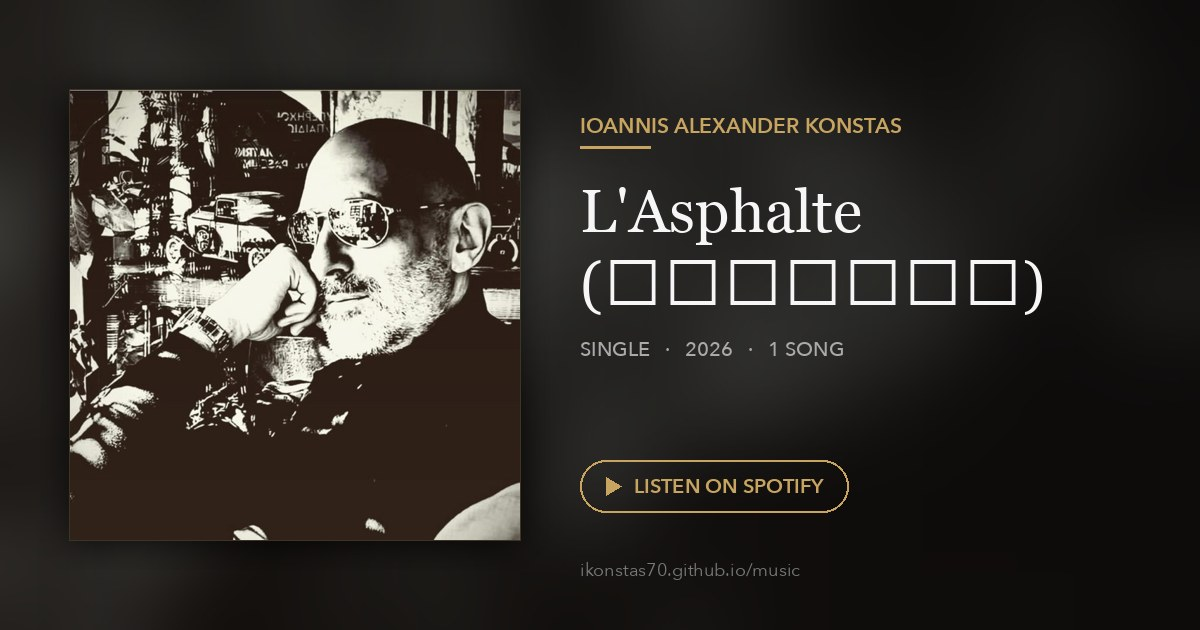
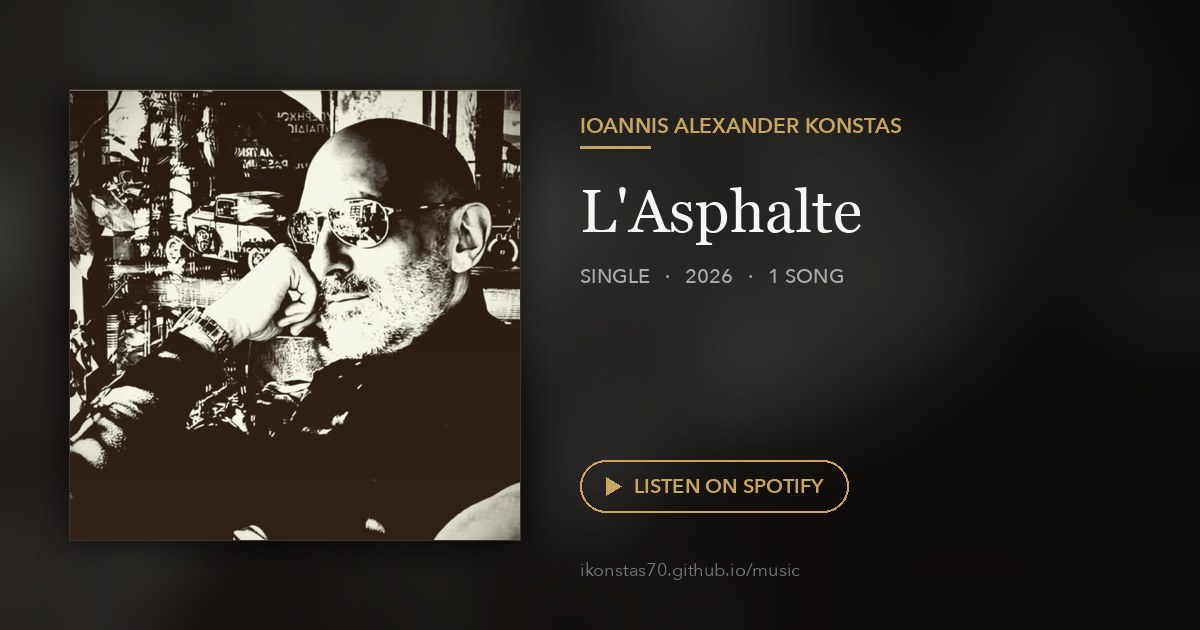
Add missed "When I Become The Signal" single; fix Arabic glyph boxes on L'Asphalte cards
- Add the standalone "When I Become The Signal" single (missed in the
  earlier batch) — 25 releases, 151 tracks now. Also cleans up a
  stale orphaned track page left over from before this single existed
  (the slug collision with the Stay True track of the same name now
  correctly produces two suffixed pages).
- Drop the Arabic parenthetical from L'Asphalte's title text: Georgia
  (the font used for share cards) can't render Arabic glyphs, so it
  was showing as a row of boxes on the Facebook preview.

Changed region(s): [[0.4625, 0.3921, 0.8942, 0.5127], [0.4625, 0.5429, 0.6167, 0.573], [0.6475, 0.5429, 0.7092, 0.573]]

diff --git a/albums/lasphalte.html b/albums/lasphalte.html
@@ -4,24 +4,24 @@
 <link rel="canonical" href="https://ikonstas70.github.io/music/albums/lasphalte.html">
 <meta charset="utf-8">
 <meta name="viewport" content="width=device-width, initial-scale=1">
-<title>L&#x27;Asphalte (الإسفلت) &mdash; Ioannis Alexander Konstas</title>
-<meta name="description" content="L&#x27;Asphalte (الإسفلت) &mdash; single by Ioannis Alexander Konstas. 1 track. Stream on Spotify.">
+<title>L&#x27;Asphalte &mdash; Ioannis Alexander Konstas</title>
+<meta name="description" content="L&#x27;Asphalte &mdash; single by Ioannis Alexander Konstas. 1 track. Stream on Spotify.">
 <meta name="author" content="Ioannis Alexander Konstas">
 
 <meta property="og:type" content="music.album">
 <meta property="og:url" content="https://ikonstas70.github.io/music/albums/lasphalte.html">
-<meta property="og:title" content="L&#x27;Asphalte (الإسفلت) &mdash; Ioannis Alexander Konstas">
-<meta property="og:description" content="L&#x27;Asphalte (الإسفلت) &mdash; single by Ioannis Alexander Konstas. 1 track. Stream on Spotify.">
+<meta property="og:title" content="L&#x27;Asphalte &mdash; Ioannis Alexander Konstas">
+<meta property="og:description" content="L&#x27;Asphalte &mdash; single by Ioannis Alexander Konstas. 1 track. Stream on Spotify.">
 <meta property="og:image" content="https://ikonstas70.github.io/music/share/lasphalte.jpg">
 <meta property="og:image:secure_url" content="https://ikonstas70.github.io/music/share/lasphalte.jpg">
 <meta property="og:image:type" content="image/jpeg">
 <meta property="og:image:width" content="1200">
 <meta property="og:image:height" content="630">
-<meta property="og:image:alt" content="L&#x27;Asphalte (الإسفلت) cover art">
+<meta property="og:image:alt" content="L&#x27;Asphalte cover art">
 <meta property="og:site_name" content="Ioannis Alexander Konstas &mdash; Music">
 <meta name="twitter:card" content="summary_large_image">
-<meta name="twitter:title" content="L&#x27;Asphalte (الإسفلت) &mdash; Ioannis Alexander Konstas">
-<meta name="twitter:description" content="L&#x27;Asphalte (الإسفلت) &mdash; single by Ioannis Alexander Konstas. 1 track. Stream on Spotify.">
+<meta name="twitter:title" content="L&#x27;Asphalte &mdash; Ioannis Alexander Konstas">
+<meta name="twitter:description" content="L&#x27;Asphalte &mdash; single by Ioannis Alexander Konstas. 1 track. Stream on Spotify.">
 <meta name="twitter:image" content="https://ikonstas70.github.io/music/share/lasphalte.jpg">
 
 <link rel="stylesheet" href="/music/style.css">
@@ -39,18 +39,18 @@
   </header>
 
   <main>
-    <img class="album-cover" src="../covers/lasphalte.jpg" alt="L&#x27;Asphalte (الإسفلت) cover art">
-    <h1 style="text-align:center">L&#x27;Asphalte (الإسفلت)</h1>
+    <img class="album-cover" src="../covers/lasphalte.jpg" alt="L&#x27;Asphalte cover art">
+    <h1 style="text-align:center">L&#x27;Asphalte</h1>
     <p class="meta" style="text-align:center">Single &middot; 1 song &middot; 4 min 3 sec &middot; Released August 21, 2026</p>
 
     <div class="spotify-embed">
-      <iframe src="https://open.spotify.com/embed/album/5ZAJ23df1bzgBjuGqv30ou?utm_source=oembed" width="100%" height="352" frameborder="0" allowfullscreen="" allow="autoplay; clipboard-write; encrypted-media; fullscreen; picture-in-picture" loading="lazy" title="Spotify Embed: L&#x27;Asphalte (الإسفلت)"></iframe>
+      <iframe src="https://open.spotify.com/embed/album/5ZAJ23df1bzgBjuGqv30ou?utm_source=oembed" width="100%" height="352" frameborder="0" allowfullscreen="" allow="autoplay; clipboard-write; encrypted-media; fullscreen; picture-in-picture" loading="lazy" title="Spotify Embed: L&#x27;Asphalte"></iframe>
     </div>
 
     <h2>Tracklist</h2>
     <p class="source-note">Tap a track to play a preview right here, via Spotify&rsquo;s own player.</p>
     <ol class="tracklist">
-      <li><span class="tn">1</span><button type="button" class="tt" data-track-id="6Sc0gYp383ZAYbF37xeEIG">L&#x27;Asphalte (الإسفلت)</button><span class="td">4:03</span></li>
+      <li><span class="tn">1</span><button type="button" class="tt" data-track-id="6Sc0gYp383ZAYbF37xeEIG">L&#x27;Asphalte</button><span class="td">4:03</span></li>
     </ol>
 
     <p style="text-align:center;"><a href="https://open.spotify.com/album/5ZAJ23df1bzgBjuGqv30ou">Listen on Spotify &rarr;</a></p>

diff --git a/tracks/l-asphalte.html b/tracks/l-asphalte.html
@@ -4,25 +4,25 @@
 <link rel="canonical" href="https://ikonstas70.github.io/music/tracks/l-asphalte.html">
 <meta charset="utf-8">
 <meta name="viewport" content="width=device-width, initial-scale=1">
-<title>L&#x27;Asphalte (الإسفلت) — Ioannis Alexander Konstas</title>
-<meta name="description" content="L&#x27;Asphalte (الإسفلت) — single by Ioannis Alexander Konstas. Stream on Spotify.">
+<title>L&#x27;Asphalte — Ioannis Alexander Konstas</title>
+<meta name="description" content="L&#x27;Asphalte — single by Ioannis Alexander Konstas. Stream on Spotify.">
 <meta name="author" content="Ioannis Alexander Konstas">
 
 <meta property="og:type" content="music.song">
 <meta property="og:url" content="https://ikonstas70.github.io/music/tracks/l-asphalte.html">
-<meta property="og:title" content="L&#x27;Asphalte (الإسفلت) — Ioannis Alexander Konstas">
-<meta property="og:description" content="L&#x27;Asphalte (الإسفلت) — single by Ioannis Alexander Konstas. Stream on Spotify.">
-<meta property="og:image" content="https://ikonstas70.github.io/music/share/tracks/l-asphalte.jpg?v=e07f9dd0">
-<meta property="og:image:secure_url" content="https://ikonstas70.github.io/music/share/tracks/l-asphalte.jpg?v=e07f9dd0">
+<meta property="og:title" content="L&#x27;Asphalte — Ioannis Alexander Konstas">
+<meta property="og:description" content="L&#x27;Asphalte — single by Ioannis Alexander Konstas. Stream on Spotify.">
+<meta property="og:image" content="https://ikonstas70.github.io/music/share/tracks/l-asphalte.jpg?v=cbe72050">
+<meta property="og:image:secure_url" content="https://ikonstas70.github.io/music/share/tracks/l-asphalte.jpg?v=cbe72050">
 <meta property="og:image:type" content="image/jpeg">
 <meta property="og:image:width" content="1200">
 <meta property="og:image:height" content="630">
-<meta property="og:image:alt" content="L&#x27;Asphalte (الإسفلت) — L&#x27;Asphalte (الإسفلت) cover art">
+<meta property="og:image:alt" content="L&#x27;Asphalte — L&#x27;Asphalte cover art">
 <meta property="og:site_name" content="Ioannis Alexander Konstas — Music">
 <meta name="twitter:card" content="summary_large_image">
-<meta name="twitter:title" content="L&#x27;Asphalte (الإسفلت) — Ioannis Alexander Konstas">
-<meta name="twitter:description" content="L&#x27;Asphalte (الإسفلت) — single by Ioannis Alexander Konstas. Stream on Spotify.">
-<meta name="twitter:image" content="https://ikonstas70.github.io/music/share/tracks/l-asphalte.jpg?v=e07f9dd0">
+<meta name="twitter:title" content="L&#x27;Asphalte — Ioannis Alexander Konstas">
+<meta name="twitter:description" content="L&#x27;Asphalte — single by Ioannis Alexander Konstas. Stream on Spotify.">
+<meta name="twitter:image" content="https://ikonstas70.github.io/music/share/tracks/l-asphalte.jpg?v=cbe72050">
 
 <link rel="stylesheet" href="/music/style.css">
 </head>
@@ -39,12 +39,12 @@
   </header>
 
   <main>
-    <img class="album-cover" src="../covers/lasphalte.jpg" alt="L&#x27;Asphalte (الإسفلت) cover art">
-    <h1 style="text-align:center">L&#x27;Asphalte (الإسفلت)</h1>
+    <img class="album-cover" src="../covers/lasphalte.jpg" alt="L&#x27;Asphalte cover art">
+    <h1 style="text-align:center">L&#x27;Asphalte</h1>
     <p class="meta" style="text-align:center">Single &middot; 4:03 &middot; 2026</p>
 
     <div class="spotify-embed">
-      <iframe src="https://open.spotify.com/embed/track/6Sc0gYp383ZAYbF37xeEIG?utm_source=oembed" width="100%" height="352" frameborder="0" allowfullscreen="" allow="autoplay; clipboard-write; encrypted-media; fullscreen; picture-in-picture" loading="lazy" title="Spotify Embed: L&#x27;Asphalte (الإسفلت)"></iframe>
+      <iframe src="https://open.spotify.com/embed/track/6Sc0gYp383ZAYbF37xeEIG?utm_source=oembed" width="100%" height="352" frameborder="0" allowfullscreen="" allow="autoplay; clipboard-write; encrypted-media; fullscreen; picture-in-picture" loading="lazy" title="Spotify Embed: L&#x27;Asphalte"></iframe>
     </div>
 
     <p style="text-align:center;"><a href="https://open.spotify.com/track/6Sc0gYp383ZAYbF37xeEIG">Listen on Spotify &rarr;</a></p>

diff --git a/albums/when-i-become-the-signal.html b/albums/when-i-become-the-signal.html
@@ -1,0 +1,70 @@
+<!DOCTYPE html>
+<html lang="en">
+<head>
+<link rel="canonical" href="https://ikonstas70.github.io/music/albums/when-i-become-the-signal.html">
+<meta charset="utf-8">
+<meta name="viewport" content="width=device-width, initial-scale=1">
+<title>When I Become The Signal &mdash; Ioannis Alexander Konstas</title>
+<meta name="description" content="When I Become The Signal &mdash; single by Ioannis Alexander Konstas. 1 track. Stream on Spotify.">
+<meta name="author" content="Ioannis Alexander Konstas">
+
+<meta property="og:type" content="music.album">
+<meta property="og:url" content="https://ikonstas70.github.io/music/albums/when-i-become-the-signal.html">
+<meta property="og:title" content="When I Become The Signal &mdash; Ioannis Alexander Konstas">
+<meta property="og:description" content="When I Become The Signal &mdash; single by Ioannis Alexander Konstas. 1 track. Stream on Spotify.">
+<meta property="og:image" content="https://ikonstas70.github.io/music/share/when-i-become-the-signal.jpg">
+<meta property="og:image:secure_url" content="https://ikonstas70.github.io/music/share/when-i-become-the-signal.jpg">
+<meta property="og:image:type" content="image/jpeg">
+<meta property="og:image:width" content="1200">
+<meta property="og:image:height" content="630">
+<meta property="og:image:alt" content="When I Become The Signal cover art">
+<meta property="og:site_name" content="Ioannis Alexander Konstas &mdash; Music">
+<meta name="twitter:card" content="summary_large_image">
+<meta name="twitter:title" content="When I Become The Signal &mdash; Ioannis Alexander Konstas">
+<meta name="twitter:description" content="When I Become The Signal &mdash; single by Ioannis Alexander Konstas. 1 track. Stream on Spotify.">
+<meta name="twitter:image" content="https://ikonstas70.github.io/music/share/when-i-become-the-signal.jpg">
+
+<link rel="stylesheet" href="/music/style.css">
+</head>
+<body>
+<div class="wrap">
+  <header class="site">
+    <a class="brand" href="/music/">Ioannis Alexander Konstas<em>.</em></a>
+    <div class="tagline">Original Music</div>
+    <div class="rule"></div>
+    <nav class="top">
+      <a href="/music/">Discography</a>
+      <a href="https://open.spotify.com/artist/7gbVmhIUyDkCw47jHlkiTF">Spotify Profile</a>
+    </nav>
+  </header>
+
+  <main>
+    <img class="album-cover" src="../covers/when-i-become-the-signal.jpg" alt="When I Become The Signal cover art">
+    <h1 style="text-align:center">When I Become The Signal</h1>
+    <p class="meta" style="text-align:center">Single &middot; 1 song &middot; 4 min 50 sec &middot; Released September 25, 2026</p>
+
+    <div class="spotify-embed">
+      <iframe src="https://open.spotify.com/embed/album/0Lo7WSHAUxEVEaPcjGexYk?utm_source=oembed" width="100%" height="352" frameborder="0" allowfullscreen="" allow="autoplay; clipboard-write; encrypted-media; fullscreen; picture-in-picture" loading="lazy" title="Spotify Embed: When I Become The Signal"></iframe>
+    </div>
+
+    <h2>Tracklist</h2>
+    <p class="source-note">Tap a track to play a preview right here, via Spotify&rsquo;s own player.</p>
+    <ol class="tracklist">
+      <li><span class="tn">1</span><button type="button" class="tt" data-track-id="09CXsNFYpB5BlQ8QxYmWKr">When I Become The Signal</button><span class="td">4:50</span></li>
+    </ol>
+
+    <p style="text-align:center;"><a href="https://open.spotify.com/album/0Lo7WSHAUxEVEaPcjGexYk">Listen on Spotify &rarr;</a></p>
+    <a class="artist-link" href="https://open.spotify.com/artist/7gbVmhIUyDkCw47jHlkiTF">Follow on Spotify &middot; Ioannis Alexander Konstas</a>
+
+    <p class="source-note" style="text-align:center; margin-top:40px;">&#8471; &amp; &copy; 2026 6722978 Records DK</p>
+
+    <p style="margin-top:32px;"><a href="/music/">&larr; Back to Discography</a></p>
+  </main>
+
+  <footer class="site">
+    <p>&copy; 2026 Ioannis Konstas &middot; <a href="https://github.com/ikonstas70">github.com/ikonstas70</a></p>
+  </footer>
+</div>
+<script src="/music/music.js"></script>
+</body>
+</html>

diff --git a/tracks/when-i-become-the-signal--when-i-become-the-signal.html b/tracks/when-i-become-the-signal--when-i-become-the-signal.html
@@ -1,0 +1,61 @@
+<!DOCTYPE html>
+<html lang="en">
+<head>
+<link rel="canonical" href="https://ikonstas70.github.io/music/tracks/when-i-become-the-signal--when-i-become-the-signal.html">
+<meta charset="utf-8">
+<meta name="viewport" content="width=device-width, initial-scale=1">
+<title>When I Become The Signal — Ioannis Alexander Konstas</title>
+<meta name="description" content="When I Become The Signal — single by Ioannis Alexander Konstas. Stream on Spotify.">
+<meta name="author" content="Ioannis Alexander Konstas">
+
+<meta property="og:type" content="music.song">
+<meta property="og:url" content="https://ikonstas70.github.io/music/tracks/when-i-become-the-signal--when-i-become-the-signal.html">
+<meta property="og:title" content="When I Become The Signal — Ioannis Alexander Konstas">
+<meta property="og:description" content="When I Become The Signal — single by Ioannis Alexander Konstas. Stream on Spotify.">
+<meta property="og:image" content="https://ikonstas70.github.io/music/share/tracks/when-i-become-the-signal--when-i-become-the-signal.jpg?v=96aa86b4">
+<meta property="og:image:secure_url" content="https://ikonstas70.github.io/music/share/tracks/when-i-become-the-signal--when-i-become-the-signal.jpg?v=96aa86b4">
+<meta property="og:image:type" content="image/jpeg">
+<meta property="og:image:width" content="1200">
+<meta property="og:image:height" content="630">
+<meta property="og:image:alt" content="When I Become The Signal — When I Become The Signal cover art">
+<meta property="og:site_name" content="Ioannis Alexander Konstas — Music">
+<meta name="twitter:card" content="summary_large_image">
+<meta name="twitter:title" content="When I Become The Signal — Ioannis Alexander Konstas">
+<meta name="twitter:description" content="When I Become The Signal — single by Ioannis Alexander Konstas. Stream on Spotify.">
+<meta name="twitter:image" content="https://ikonstas70.github.io/music/share/tracks/when-i-become-the-signal--when-i-become-the-signal.jpg?v=96aa86b4">
+
+<link rel="stylesheet" href="/music/style.css">
+</head>
+<body>
+<div class="wrap">
+  <header class="site">
+    <a class="brand" href="/music/">Ioannis Alexander Konstas<em>.</em></a>
+    <div class="tagline">Original Music</div>
+    <div class="rule"></div>
+    <nav class="top">
+      <a href="/music/">Discography</a>
+      <a href="https://open.spotify.com/artist/7gbVmhIUyDkCw47jHlkiTF">Spotify Profile</a>
+    </nav>
+  </header>
+
+  <main>
+    <img class="album-cover" src="../covers/when-i-become-the-signal.jpg" alt="When I Become The Signal cover art">
+    <h1 style="text-align:center">When I Become The Signal</h1>
+    <p class="meta" style="text-align:center">Single &middot; 4:50 &middot; 2026</p>
+
+    <div class="spotify-embed">
+      <iframe src="https://open.spotify.com/embed/track/09CXsNFYpB5BlQ8QxYmWKr?utm_source=oembed" width="100%" height="352" frameborder="0" allowfullscreen="" allow="autoplay; clipboard-write; encrypted-media; fullscreen; picture-in-picture" loading="lazy" title="Spotify Embed: When I Become The Signal"></iframe>
+    </div>
+
+    <p style="text-align:center;"><a href="https://open.spotify.com/track/09CXsNFYpB5BlQ8QxYmWKr">Listen on Spotify &rarr;</a></p>
+    <a class="artist-link" href="https://open.spotify.com/artist/7gbVmhIUyDkCw47jHlkiTF">Follow on Spotify &middot; Ioannis Alexander Konstas</a>
+
+    <p style="margin-top:32px;"><a href="/music/albums/when-i-become-the-signal.html">&larr; Single page</a> &nbsp;&middot;&nbsp; <a href="/music/">Discography</a></p>
+  </main>
+
+  <footer class="site">
+    <p>&copy; 2026 Ioannis Konstas &middot; <a href="https://github.com/ikonstas70">github.com/ikonstas70</a></p>
+  </footer>
+</div>
+</body>
+</html>

diff --git a/index.html b/index.html
@@ -5,13 +5,13 @@
 <meta charset="utf-8">
 <meta name="viewport" content="width=device-width, initial-scale=1">
 <title>Ioannis Alexander Konstas — Music</title>
-<meta name="description" content="Original music by Ioannis Alexander Konstas — 24 releases, 150 tracks. Stream on Spotify.">
+<meta name="description" content="Original music by Ioannis Alexander Konstas — 25 releases, 151 tracks. Stream on Spotify.">
 <meta name="author" content="Ioannis Alexander Konstas">
 
 <meta property="og:type" content="website">
 <meta property="og:url" content="https://ikonstas70.github.io/music/">
 <meta property="og:title" content="Ioannis Alexander Konstas — Music">
-<meta property="og:description" content="Original music by Ioannis Alexander Konstas — 24 releases, 150 tracks. Stream on Spotify.">
+<meta property="og:description" content="Original music by Ioannis Alexander Konstas — 25 releases, 151 tracks. Stream on Spotify.">
 <meta property="og:image" content="https://ikonstas70.github.io/music/share/discography.jpg">
 <meta property="og:image:secure_url" content="https://ikonstas70.github.io/music/share/discography.jpg">
 <meta property="og:image:type" content="image/jpeg">
@@ -20,7 +20,7 @@
 <meta property="og:site_name" content="Ioannis Alexander Konstas — Music">
 <meta name="twitter:card" content="summary_large_image">
 <meta name="twitter:title" content="Ioannis Alexander Konstas — Music">
-<meta name="twitter:description" content="Original music by Ioannis Alexander Konstas — 24 releases, 150 tracks. Stream on Spotify.">
+<meta name="twitter:description" content="Original music by Ioannis Alexander Konstas — 25 releases, 151 tracks. Stream on Spotify.">
 <meta name="twitter:image" content="https://ikonstas70.github.io/music/share/discography.jpg">
 
 <link rel="stylesheet" href="/music/style.css">
@@ -39,7 +39,7 @@
 
   <main>
     <h1 style="text-align:center">Discography</h1>
-    <p class="section-intro">24 releases, 150 tracks. Every track plays a preview right here via Spotify&rsquo;s own player &mdash; or follow through to stream the full catalog.</p>
+    <p class="section-intro">25 releases, 151 tracks. Every track plays a preview right here via Spotify&rsquo;s own player &mdash; or follow through to stream the full catalog.</p>
 
     <div class="discography-grid">
       <a class="album-card" href="/music/albums/simeio-miden.html">
@@ -138,8 +138,8 @@
         <span class="ac-meta">Single &middot; 2026 &middot; 1 song</span>
       </a>
       <a class="album-card" href="/music/albums/lasphalte.html">
-        <img src="/music/covers/lasphalte.jpg" alt="L'Asphalte (الإسفلت) cover art" loading="lazy">
-        <h3>L'Asphalte (الإسفلت)</h3>
+        <img src="/music/covers/lasphalte.jpg" alt="L'Asphalte cover art" loading="lazy">
+        <h3>L'Asphalte</h3>
         <span class="ac-meta">Single &middot; 2026 &middot; 1 song</span>
       </a>
       <a class="album-card" href="/music/albums/ars-progressiva-art-of-progress.html">
@@ -160,6 +160,11 @@
       <a class="album-card" href="/music/albums/non-tam-ordinarius.html">
         <img src="/music/covers/non-tam-ordinarius.jpg" alt="Non Tam Ordinarius cover art" loading="lazy">
         <h3>Non Tam Ordinarius</h3>
+        <span class="ac-meta">Single &middot; 2026 &middot; 1 song</span>
+      </a>
+      <a class="album-card" href="/music/albums/when-i-become-the-signal.html">
+        <img src="/music/covers/when-i-become-the-signal.jpg" alt="When I Become The Signal cover art" loading="lazy">
+        <h3>When I Become The Signal</h3>
         <span class="ac-meta">Single &middot; 2026 &middot; 1 song</span>
       </a>
     </div>

diff --git a/tracks/when-i-become-the-signal--stay-true.html b/tracks/when-i-become-the-signal--stay-true.html
@@ -1,7 +1,7 @@
 <!DOCTYPE html>
 <html lang="en">
 <head>
-<link rel="canonical" href="https://ikonstas70.github.io/music/tracks/when-i-become-the-signal.html">
+<link rel="canonical" href="https://ikonstas70.github.io/music/tracks/when-i-become-the-signal--stay-true.html">
 <meta charset="utf-8">
 <meta name="viewport" content="width=device-width, initial-scale=1">
 <title>When I Become The Signal — Ioannis Alexander Konstas</title>
@@ -9,11 +9,11 @@
 <meta name="author" content="Ioannis Alexander Konstas">
 
 <meta property="og:type" content="music.song">
-<meta property="og:url" content="https://ikonstas70.github.io/music/tracks/when-i-become-the-signal.html">
+<meta property="og:url" content="https://ikonstas70.github.io/music/tracks/when-i-become-the-signal--stay-true.html">
 <meta property="og:title" content="When I Become The Signal — Ioannis Alexander Konstas">
 <meta property="og:description" content="When I Become The Signal — track 33 from the Album “Stay True” by Ioannis Alexander Konstas. Stream on Spotify.">
-<meta property="og:image" content="https://ikonstas70.github.io/music/share/tracks/when-i-become-the-signal.jpg?v=5673e845">
-<meta property="og:image:secure_url" content="https://ikonstas70.github.io/music/share/tracks/when-i-become-the-signal.jpg?v=5673e845">
+<meta property="og:image" content="https://ikonstas70.github.io/music/share/tracks/when-i-become-the-signal--stay-true.jpg?v=5673e845">
+<meta property="og:image:secure_url" content="https://ikonstas70.github.io/music/share/tracks/when-i-become-the-signal--stay-true.jpg?v=5673e845">
 <meta property="og:image:type" content="image/jpeg">
 <meta property="og:image:width" content="1200">
 <meta property="og:image:height" content="630">
@@ -22,7 +22,7 @@
 <meta name="twitter:card" content="summary_large_image">
 <meta name="twitter:title" content="When I Become The Signal — Ioannis Alexander Konstas">
 <meta name="twitter:description" content="When I Become The Signal — track 33 from the Album “Stay True” by Ioannis Alexander Konstas. Stream on Spotify.">
-<meta name="twitter:image" content="https://ikonstas70.github.io/music/share/tracks/when-i-become-the-signal.jpg?v=5673e845">
+<meta name="twitter:image" content="https://ikonstas70.github.io/music/share/tracks/when-i-become-the-signal--stay-true.jpg?v=5673e845">
 
 <link rel="stylesheet" href="/music/style.css">
 </head>

diff --git a/tools/build_release_cards.py b/tools/build_release_cards.py
@@ -88,7 +88,7 @@ def index_card():
     d.text((x,140),"ORIGINAL MUSIC",font=AV(2,22),fill=GOLD); d.rectangle([x,176,x+70,178],fill=GOLD)
     d.text((x,202),"Ioannis Alexander",font=F("Georgia.ttf",50),fill=FG)
     d.text((x,264),"Konstas",font=F("Georgia.ttf",50),fill=FG)
-    d.text((x,346),"24 RELEASES  ·  150 TRACKS",font=AV(5,21),fill=DIM)
+    d.text((x,346),"25 RELEASES  ·  151 TRACKS",font=AV(5,21),fill=DIM)
     pill(d,x,400)
     d.text((x,H-72),"ikonstas70.github.io/music",font=AV(7,18),fill=(120,120,120))
     img.save(f"{OUT}/discography.jpg",quality=88,optimize=True,progressive=True)
